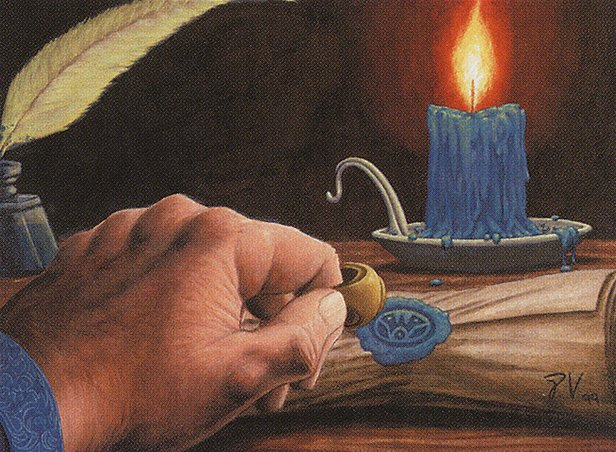
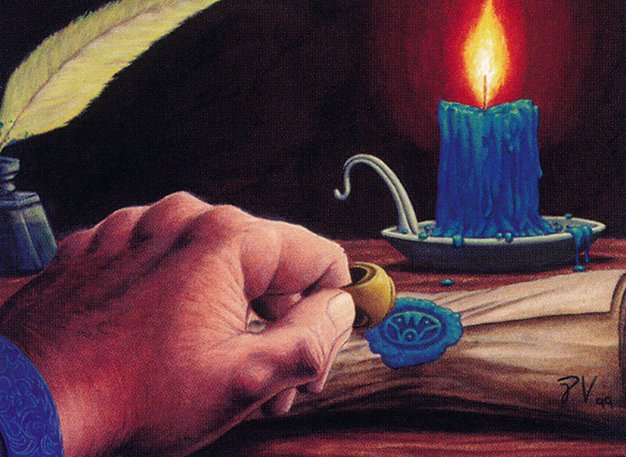
Updated Contact page; misc CSS tweaks; edited other text

diff --git a/src/components/manual-chapters/AddMultiple.vue b/src/components/manual-chapters/AddMultiple.vue
@@ -1,17 +1,17 @@
 <template functional>
 	<section id="add-multiple" key="add-multiple">
 		<h4>“Add Multiple” Button</h4>
-		<p>When you create a <a href="#create-deck">new deck</a>, you might already know many or all of the certain <i>Magic</i> cards that you’re going to include in it. Though you could use the <a href="#card-adder">card adder</a> tool to add each of those card names to your deck one by one, a faster method is to use the submission form on the <a href="#card-list-entry">Card List Entry page</a> instead.</p>
-		<p>To go to the Card List Entry page, click the “Add multiple” button. This button is located next to the card adder in the <a href="#list-editor">List Editor</a>.</p>
+		<p>When you create a <a href="#create-deck">new deck</a>, you might already know many or all of the certain <i>Magic</i> cards you’re going to include in it. Or, maybe you have the plain-text card list of a deck from a source outside MTG Deck Builder, and you’d like to interact with that deck inside MTG Deck Builder.</p>
+		<p>You could add each of those known card names to your deck one by one using the <a href="#card-adder">card adder</a> tool. However, a faster way is to use the submission form on the <a href="#card-list-entry">Card List Entry page</a> instead.</p>
+		<p>To go to the Card List Entry page, click the “Add multiple” button, located next to the card adder in the <a href="#list-editor">List Editor</a>.</p>
 
 		<section id="card-list-entry">
 			<h5>Card List Entry Page</h5>
-			<p>You can access the Card List Entry page by clicking the <a href="#list-editor">List Editor</a>’s <a href="#add-multiple">“Add multiple” button</a>.</p>
-			<p>The Card List Entry page has a submission form in which you can enter text for multiple card names to add at once to your deck’s main <a href="#card-groups">card group</a>, along with assigning the quantity for each name.</p>
+			<p>You can access the Card List Entry page by clicking the <a href="#add-multiple">“Add multiple” button</a> in the <a href="#list-editor">List Editor</a>.</p>
+			<p>The Card List Entry page has a submission form in which you can enter text for multiple names of <i>Magic</i> cards to add at once to your deck’s main <a href="#card-groups">card group</a>, along with assigning the quantity to each name.</p>
 			<p>You can also use the submission form to change the quantities of any card names that already exist in your deck’s main card group. Setting a name’s quantity to 0 will remove that name from the main group.</p>
-			<p>The Card List Entry page provides you instructions on how to write card lists as text in the correct format. (This format is the same one of card lists generated by the “<a href="#render-as-text-action">render as text</a>” deck action.) The list you enter must strictly follow that format, or else it’ll be rejected or cause errors in trying to add cards.</p>
+			<p>The Card List Entry page provides you instructions on how to write card lists in the correct format. (This format is the same one used for card lists generated by MTG Deck Builder’s “<a href="#render-as-text-action">render as text</a>” action.) It’s important that the list you enter follows the format, because otherwise, some or all of your list will be rejected or cause errors in trying to add the cards.</p>
 			<p>Once you submit a card list, you’re automatically taken to the results page. It informs you about all the card names you’ve submitted that have been successfully added to your deck (if any), and other names that couldn’t be added (if any) with the reason why.</p>
-			<p>The Card List Entry page is especially helpful if you’ve got a <i>Magic</i> deck’s card list in the form of plain text from a source outside MTG Deck Builder, and you want to interact with that deck inside MTG Deck Builder. However, importing a <a href="#deck-data-files">deck data file</a>, if available, is generally better for sharing a deck between computers or mobile devices all using MTG Deck Builder, because the data files contain additional deck information that’s missing from plain text card lists.</p>
 		</section>
 	</section>
 </template>

diff --git a/src/components/manual-chapters/DeckActions.vue b/src/components/manual-chapters/DeckActions.vue
@@ -6,29 +6,29 @@
 		<section id="render-as-text-action">
 			<h5>Render as Text</h5>
 			<p>In the <a href="#deck-actions">Deck Actions</a> menu, select the “Render as text” option to go to the “Deck in Plain Text” page. From there, you can view the cards in your deck’s <a href="#card-groups">main and sideboard groups</a> in the form of simple lists in plain text.</p>
-			<p>These plain text card lists have one card name per line, with each name preceded by its <a href="#card-quantities">quantity</a>. (This textual card list format is the same one used for <a href="#add-multiple">adding card lists</a> to your deck.)</p>
+			<p>These plain-text card lists have one card name per line, with each name preceded by its <a href="#card-quantities">quantity</a>. (This textual card list format is the same one used for <a href="#add-multiple">adding card lists</a> to your deck.)</p>
 			<p>Why would you want to see your deck in the form of plain text?</p>
 			<ul>
 				<li>
 					<p><strong>Shop online faster for your deck’s cards.</strong> On some online stores that sell <i>Magic</i> card singles, they provide you a way to search for a list of cards at once. Stores may call this list-searching method “mass entry,” “deck builder,” etc. You can copy your plain-text deck lists from this app, then paste it into an online store’s mass entry search.</p>
 				</li>
 				<li>
-					<p><strong>Print out your deck lists.</strong> A plain text document is better suited for printing on paper than the web page of the <a href="#list-editor">List Editor</a>.</p>
+					<p><strong>Print out your deck lists.</strong> A text document is better suited for printing on paper than the web page of the <a href="#list-editor">List Editor</a>.</p>
 				</li>
 				<li>
-					<p><strong>Share over the Internet.</strong> Plain text card lists are a human-readable format that doesn’t require other people to use MTG Deck Builder, unlike <a href="#deck-data-files">deck data files</a>. (However, a deck data file can <a href="#export-action">export</a> and import multiple decks together, and includes extra data about decks that a plain text list lacks.)</p>
+					<p><strong>Share over the Internet.</strong> Plain-text card lists are in a human-readable format that doesn’t require other people to use MTG Deck Builder, unlike <a href="#deck-data-files">deck data files</a>. (However, a deck data file can <a href="#export-action">export</a> and import multiple decks together, and includes extra data about decks that a plain-text list lacks.)</p>
 				</li>
 			</ul>
-			<p>If you want to take these plain text card lists outside MTG Deck Builder, there are easy ways to do that:</p>
+			<p>If you want to take these plain-text card lists outside MTG Deck Builder, there are easy ways to do that:</p>
 			<ul>
 				<li>
-					<p>You can download a text file (.TXT) that lists the cards in both the deck’s main and sideboard groups. The text file is saved to wherever your web browser puts downloads.</p>
+					<p>You can download a text file (.TXT) that lists the cards in both the deck’s main and sideboard groups. The file is saved to wherever your web browser puts downloads.</p>
 				</li>
 				<li>
 					<p>For either the main or the sideboard group of your deck, you can click the Copy button beside the list to instantly select and copy the whole text list to the clipboard of your computer or mobile device. (Then you can paste it elsewhere.)</p>
 				</li>
 			</ul>
-			<p>The order of card names in the plain text card lists matches that of the List Editor’s <a href="#card-list">card lists</a>. If you care about the order, use the List Editor’s <a href="#card-sorter">card sorter</a> to rearrange the names in the way you prefer before you render your deck as text.</p>
+			<p>The order of card names in the plain-text card lists matches that of the List Editor’s <a href="#card-list">card lists</a>. If you care about the order, use the List Editor’s <a href="#card-sorter">card sorter</a> to rearrange the names in the way you prefer before you render your deck as text.</p>
 		</section>
 
 		<section id="duplicate-action">

diff --git a/src/views/ContactPage.vue b/src/views/ContactPage.vue
@@ -3,16 +3,28 @@
 		<h2>Contact</h2>
 
 		<figure>
-			<img class="intro-illustration" src="~@/img/tidings.jpg" width="626" height="452" alt="An illustration of a man's hand pressing a wax seal onto a scroll by candlelight" />
-			<figcaption>Illustration: <i><a href="https://scryfall.com/card/10e/116/tidings" target="_blank">Tidings</a></i> by Pete Venters</figcaption>
+			<img class="intro-illustration" src="~@/img/tidings.jpg" width="626" height="457" alt="An illustration of a man's hand pressing a wax seal onto a scroll by candlelight" />
+			<figcaption>Illustration: <i><a href="https://scryfall.com/card/c18/108/tidings" target="_blank">Tidings</a></i> by Pete Venters</figcaption>
 		</figure>
 
 		<div class="column">
-			<h3>Email</h3>
-			<p>If you have questions or comments for the designer and developer of MTG Deck Builder, email Damian Schmidt at <a href="mailto:damian@iristormdesign.com">damian@iristormdesign.com</a>. Bug reports are appreciated.</p>
-
-			<h3>GitHub</h3>
-			<p>Though MTG Deck Builder is copyrighted, you can view its <a href="https://github.com/IristormDesign/mtg-deck-builder" target="_blank">source code on GitHub</a>. You can contact the developer (@IristormDesign) on there, too.</p>
+			<p>The creator of MTG Deck Builder is Damian Schmidt of <a href="https://iristormdesign.com/" target="_blank">Iristorm Design</a>. You can contact him for questions or comments via any of the following media:</p>
+			<ul>
+				<li>
+					<p><strong>Email</strong> – Send an email to <a href="mailto:damian@iristormdesign.com">damian@iristormdesign.com</a>.</p>
+				</li>
+				<li>
+					<p><strong>GitHub</strong> – Though MTG Deck Builder is copyrighted, you can see its <a href="https://github.com/IristormDesign/mtg-deck-builder" target="_blank">source code on GitHub</a>. You can contact the developer (@IristormDesign) on there, too.</p>
+				</li>
+				<li>
+					<p><strong>X</strong> – Send a direct message on X (Twitter) to <a href="https://x.com/IristormDesign" target="_blank">@IristormDesign</a>.</p>
+				</li>
+			</ul>
+			<p>Bug reports are appreciated.</p>
 		</div>
 	</article>
 </template>
+
+<style lang="scss">
+	@import '@/sass/page-contact.scss';
+</style>

diff --git a/src/components/manual-chapters/CardImage.vue b/src/components/manual-chapters/CardImage.vue
@@ -13,7 +13,7 @@
 		<p>Whenever you <a href="#card-adder">add a card name</a> to the card list, or whenever you navigate up or down the list’s rows by <a href="#keyboard-shortcuts">pressing the <kbd>W</kbd> or <kbd>S</kbd> keys</a>, the relevant image is automatically shown.</p>
 		<p>To look at the card image up closer, hover your mouse pointer over it, or press <kbd>Q</kbd>.</p>
 		<p>If you’re using MTG Deck Builder on a mobile device instead of a computer with a larger screen, then the card image is normally invisible. You can still look at any card’s image by tapping the card’s bar in the card list, which makes the image appear hovering over the page. Then, to hide the image, tap the “X” button by the page’s top-right corner.</p>
-		<p>Click/tap the image, or press <span class="no-text-break"><kbd class="shift-key">Shift</kbd>+<kbd>Q</kbd></span>, to see that card’s page on <a href="https://scryfall.com/" target="_blank">Scryfall</a>, which opens in a new browser tab. Scryfall is a search engine and database for <i>Magic</i> cards (and it’s also from where MTG Deck Builder <a href="#app-dev">gets card data</a>).</p>
+		<p>Click/tap the image, or press <span class="no-text-break"><kbd class="shift-key">Shift</kbd>+<kbd>Q</kbd></span>, to see that card’s page on <a href="https://scryfall.com/" target="_blank">Scryfall</a>, which opens in a new browser tab. Scryfall is a search engine and database for <i>Magic</i> cards.</p>
 		<p>Whenever the displayed image is of a double-faced card, a button labeled “Turn Over” appears below the image. Click that button, or press <kbd>Z</kbd>, to see the card’s back face.</p>
 	</section>
 </template>

diff --git a/src/sass/general.scss b/src/sass/general.scss
@@ -17,7 +17,7 @@ body {
 .fade-bg {
 	background:
 	  linear-gradient((180deg + 5.625),
-	   rgba(#fff, 8.33%) 0,
+	   rgba(#fff, 12.5%) 0,
 	   rgba(#fff, 0%) 100vh
 		),
 		top left repeat url('@/img/turbulence-bg-tile.jpg')
@@ -135,7 +135,7 @@ li {
 	}
 	&:last-child {
 		p:last-child {
-			margin-bottom: $lhse*.75;
+			margin-bottom: 0;
 		}
 	}
 }
@@ -148,7 +148,7 @@ figure {
 	margin: $lhse*.5;
 
 	img {
-		background-color: $color-group-bg-darker;
+		background-color: $color-group-bg-lighter;
 	}
 }
 figcaption {
@@ -162,7 +162,7 @@ figcaption {
 	}
 }
 kbd {
-	$kbd-height: $lhse*1.3333;
+	$kbd-height: $lhse*1.25;
 
 	background: $color-heading-bg;
 	color: $color-text-brighter;
@@ -172,10 +172,10 @@ kbd {
 	margin: 0 1px;
 	width: $kbd-height;
 	height: $kbd-height;
-	border-radius: $kbd-height*.125;
-	font-size: 70.83%;
-	font-family: "Segoe UI Semibold", ui-sans-serif, system-ui, sans-serif;
-	vertical-align: text-top;
+	border-radius: $kbd-height*.0833;
+	font-size: 75%;
+	font-family: ui-sans-serif, system-ui, sans-serif;
+	font-weight: 400;
 	margin-top: -.125em; // To vertically align the key letters with normal text.
 	margin-bottom: -.125em; // To maintain a consistent line height.
 

diff --git a/src/sass/variables.scss b/src/sass/variables.scss
@@ -39,7 +39,7 @@ $color-group-bg-lighter: desaturate(lighten($color-group-bg, 6.25%), 6.25%);
 $color-text: desaturate(lighten($color-group-bg, 60%), 8.33%);
 $color-text-brighter: lighten($color-text, 6.25%);
 $color-text-extra-brighter: lighten($color-text, 12.5%);
-$color-text-darker: darken($color-text, 12.5%);
+$color-text-darker: desaturate(darken($color-text, 12.5%), 6.25%);
 $color-button-gray: lighten(desaturate($color-mythic-complement, 75%), 20%);
 $color-heading-bg: desaturate(lighten($color-group-bg, 12.5%), 8.33%);
 $color-section-border: $color-heading-bg;
@@ -122,7 +122,7 @@ $border-sections-thick: $border-width-sections-thickest solid $color-section-bor
 $border-sections-alt: $border-width-sections solid $color-section-border-alt;
 $color-input-border: $border-width-sections solid $color-button-orange;
 $border-image-thin: $border-width-sections solid $color-group-bg-darker;
-$border-image-thick: $border-width-sections-thickest solid $color-group-bg-lighter;
+$border-image-thick: divide($lhse, 3) solid $color-group-bg-lighter;
 $border-bottom-width-button: 3px;
 $outline-focus-visible: 2px solid $color-link-active;
 $outline-keyboard-focus: 2px solid $color-button-orange;

diff --git a/src/components/manual-chapters/CardSorter.vue b/src/components/manual-chapters/CardSorter.vue
@@ -40,7 +40,7 @@
 				<p><strong>Rarity</strong> – Sorts from highest to lowest by level of rarity.</p>
 			</li>
 			<li>
-				<p><strong>P/T sum</strong> – Sorts from greatest to least by “P/T sum,” which is a number equal to the combined power and toughness (P/T) numbers of a card. (For example, the P/T sum of a 3/2 creature is 5.) Among cards having the same P/T sums as each other, they’re sorted by power alone from greatest to least. Cards without the power and toughness attribute are moved to the bottom.</p>
+				<p><strong>P/T sum</strong> – Sorts from greatest to least by “P/T sum,” which is a number equal to combining the power and toughness (P/T) numbers of a card. (For example, the P/T sum of a 3/2 creature is 5.) Among cards having the same P/T sums as each other, they’re sorted by power alone from greatest to least. Cards without the power and toughness attribute are moved to the bottom.</p>
 			</li>
 			<li>
 				<p><strong>Quantity</strong> – Sorts from greatest to least by card name <a href="#card-quantities">quantity</a>.</p>

diff --git a/src/sass/page-list-entry.scss b/src/sass/page-list-entry.scss
@@ -2,7 +2,7 @@
 
 .list-entry,
 .list-entry-results {
-	margin: 0 auto $lhse*.5;
+	margin: 0 auto $lhse;
 
 	h3 {
 		@include pronounced-heading;
@@ -10,14 +10,14 @@
 	}
 }
 .list-entry {
-	max-width: $lhse*32;
-
 	.columns {
 		display: grid;
 		grid-template-columns: 1fr 1fr;
 		gap: $lhse $lhse;
 		align-items: flex-start;
-		margin: $lhse*1.5 0 $lhse*.5;
+		margin: $lhse*.75 0 $lhse*.5;
+		border-top: $border-sections;
+		padding-top: $lhse;
 	}
 	form {
 		display: flex;
@@ -67,6 +67,8 @@
 		}
 	}
 	.rules {
+		font-size: $font-size-small;
+
 		h4 {
 			margin-top: 0;
 		}
@@ -134,7 +136,7 @@
 	}
 }
 
-@media (max-width: ($min-width-app * .8333)) {
+@media (max-width: ($min-width-app * .7083)) {
 	.list-entry {
 		max-width: $max-width-content;
 
@@ -156,6 +158,7 @@
 @media (max-width: ($min-width-app * .4583)) {
 	.list-entry {
 		form {
+			justify-self: center;
 			margin-right: -$lhse*.5;
 			margin-left: -$lhse*.5;
 		}

diff --git a/src/components/manual-chapters/AppDevelopment.vue b/src/components/manual-chapters/AppDevelopment.vue
@@ -3,6 +3,6 @@
 		<h3>App Development</h3>
 		<p>MTG Deck Builder has been designed and developed by Damian Schmidt of <a href="https://iristormdesign.com/" target="_blank">Iristorm Design</a>. You can read an article about <a href="https://iristormdesign.com/portfolio/mtg-deck-builder/" target="_blank">how this app was made</a>.</p>
 		<p>Data and images of <i>Magic</i> cards in MTG Deck Builder are provided by <a href="https://scryfall.com/" target="_blank">Scryfall</a> through its public API. Iristorm Design is not affiliated with Scryfall.</p>
-		<p>You can <router-link :to="{name: 'contact'}">contact the developer</router-link> of MTG Deck Builder for questions or comments.</p>
+		<p>You can <router-link :to="{name: 'contact'}">contact the creator</router-link> of MTG Deck Builder for questions or comments.</p>
 	</section>
 </template>

diff --git a/src/sass/page-contact.scss b/src/sass/page-contact.scss
@@ -1,0 +1,41 @@
+@import 'variables';
+
+.contact-page {
+	display: grid;
+	grid-template-columns: 1fr 1fr;
+	gap: $lhse;
+	max-width: $max-width-content*1.5;
+
+	h2 {
+		grid-column: span 2;
+		text-align: center;
+		margin-bottom: 0;
+	}
+	figure {
+		margin: 0;
+	}
+	.column {
+		> p:first-child {
+			margin-top: -$lhse*.25;
+		}
+	}
+}
+
+@media (max-width: ($min-width-app)) {
+	.contact-page {
+		grid-template-columns: auto;
+		gap: $lhse;
+		max-width: $max-width-content;
+
+		h2 {
+			grid-column: 1;
+		}
+		.column {
+			margin-top: -$lhse*.5;
+
+			> p:first-child {
+				margin-top: 0;
+			}
+		}
+	}
+}

diff --git a/src/views/ListEntry.vue b/src/views/ListEntry.vue
@@ -2,7 +2,7 @@
 	<article class="list-entry content-box">
 		<h3>Card List Entry</h3>
 		<template v-if="!isLoadingCards">
-			<p>Here you can add multiple cards at once to the main card group of this deck. For more info about how this page works, see the <router-link to="/manual/#card-list-entry">user manual</router-link>.</p>
+			<p>Here you can add multiple cards at once to the main card group of this deck. For more info, see the <router-link to="/manual/#add-multiple">user manual</router-link>.</p>
 			<div class="columns">
 				<form>
 					<label for="card-list-entry">Enter a list of cards:</label>

diff --git a/src/sass/misc.scss b/src/sass/misc.scss
@@ -54,35 +54,3 @@
 	font-size: $font-size-small;
 	font-style: italic;
 }
-.contact-page {
-	display: grid;
-	grid-template-columns: 1fr 1fr;
-	gap: $lhse;
-	max-width: $max-width-content*1.3333;
-
-	h2 {
-		text-align: center;
-		grid-column: span 2;
-		margin-bottom: 0;
-	}
-	figure {
-		margin: 0;
-	}
-	.column {
-		h3 {
-			&:first-child {
-				margin-top: 0;
-			}
-		}
-	}
-}
-
-@media (max-width: ($min-width-app*.8)) {
-	.contact-page {
-		grid-template-columns: auto;
-
-		h2 {
-			grid-column: 1;
-		}
-	}
-}
